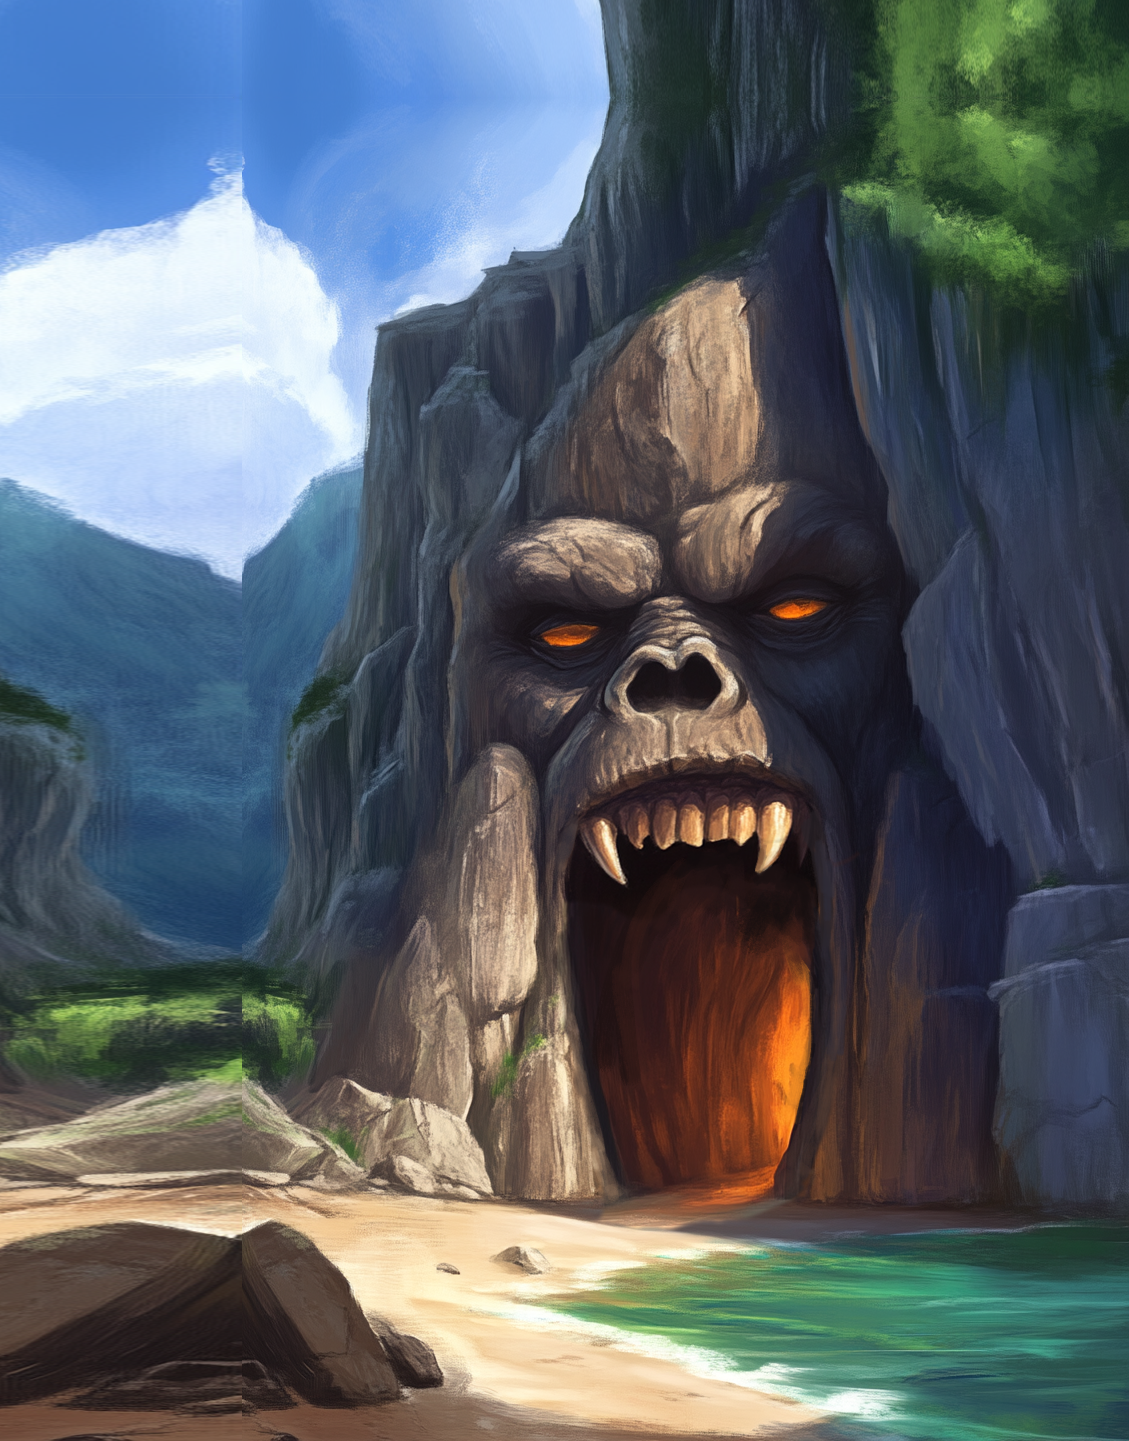
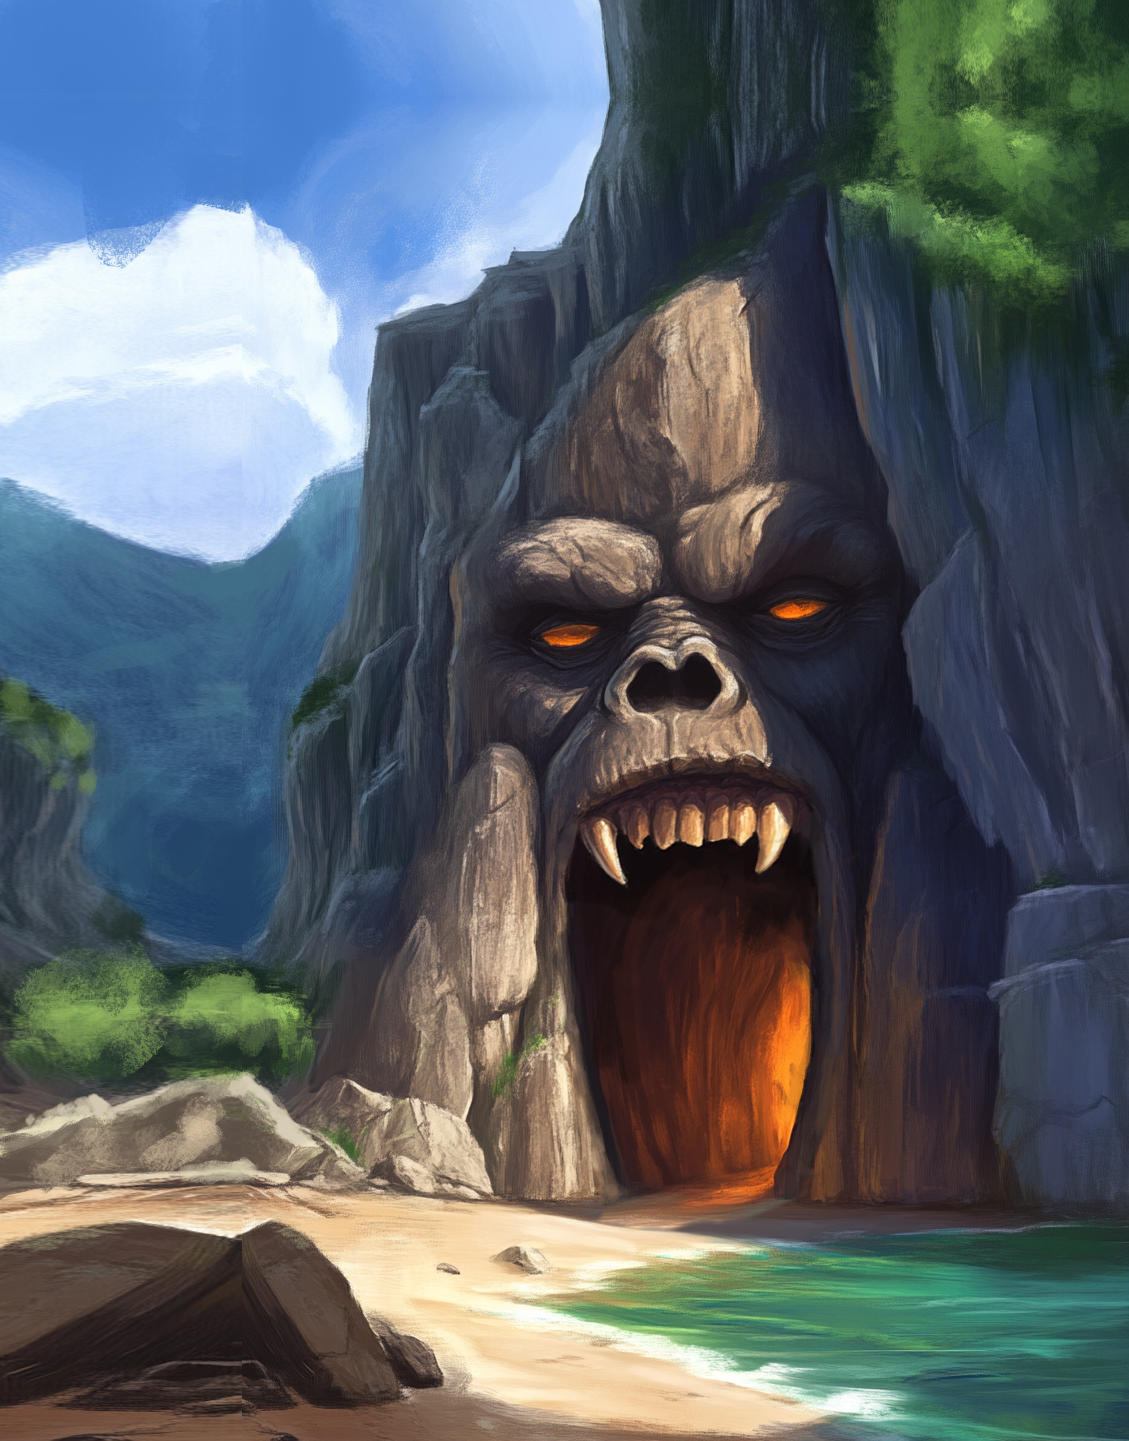
Redo the trouble card

diff --git a/deckhand2/cards.en.js b/deckhand2/cards.en.js
@@ -673,11 +673,12 @@ var cards = [
         "title": "Troubled Expedition",
         "discard": ['s'],
         "cost": ['h', 'h', 'c'],
-        "img": "cards/doomed-expedition.png",
+        "img": "cards/trouble.png",
         "extra": ['crown'],
         // "banners": ['rum-banner'],
         "production": ['s'],
         "changed": false,
+        "css": "bg-top"
     },
 
     {

diff --git a/deckhand2/2.html b/deckhand2/2.html
@@ -619,7 +619,7 @@ cards.forEach((c) => {
 
     var card_template = `
     <div>
-        <div class="card type-${c.type || ""}" title="${c.title}" id="card-${i}">
+        <div class="card ${c.css || ""} type-${c.type || ""}" title="${c.title}" id="card-${i}">
             <div class="inner">
                 
                 ${top}

diff --git a/deckhand2/2.css b/deckhand2/2.css
@@ -56,6 +56,10 @@ a, a:visited {
     margin-top: 50px;
 }
 
+.card.bg-top .bg {
+    margin-top: 70px;  
+}
+
 .card .bg img {
     width: 100%;
 }
